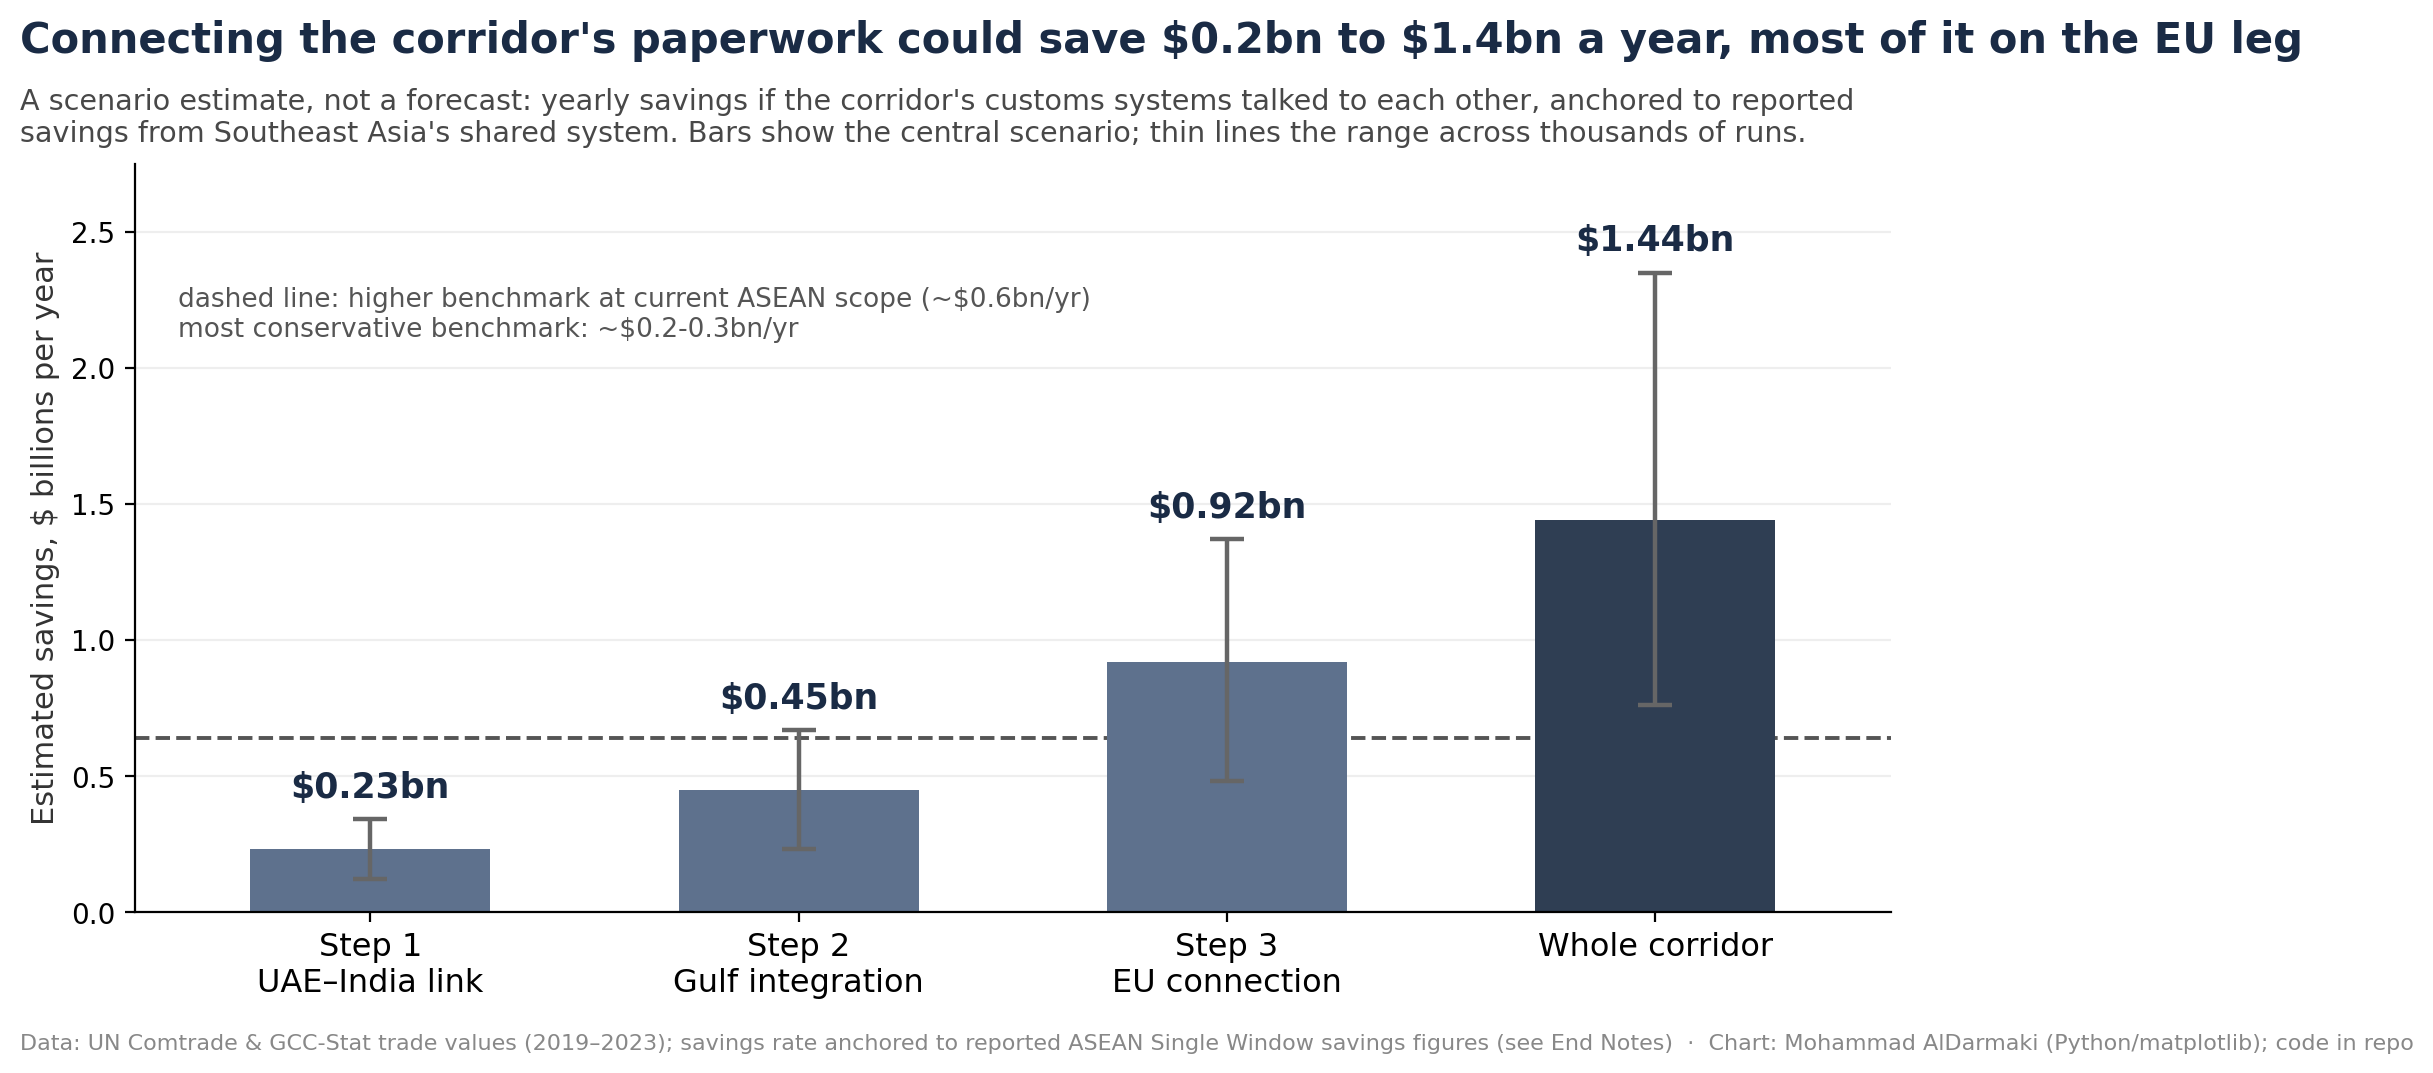
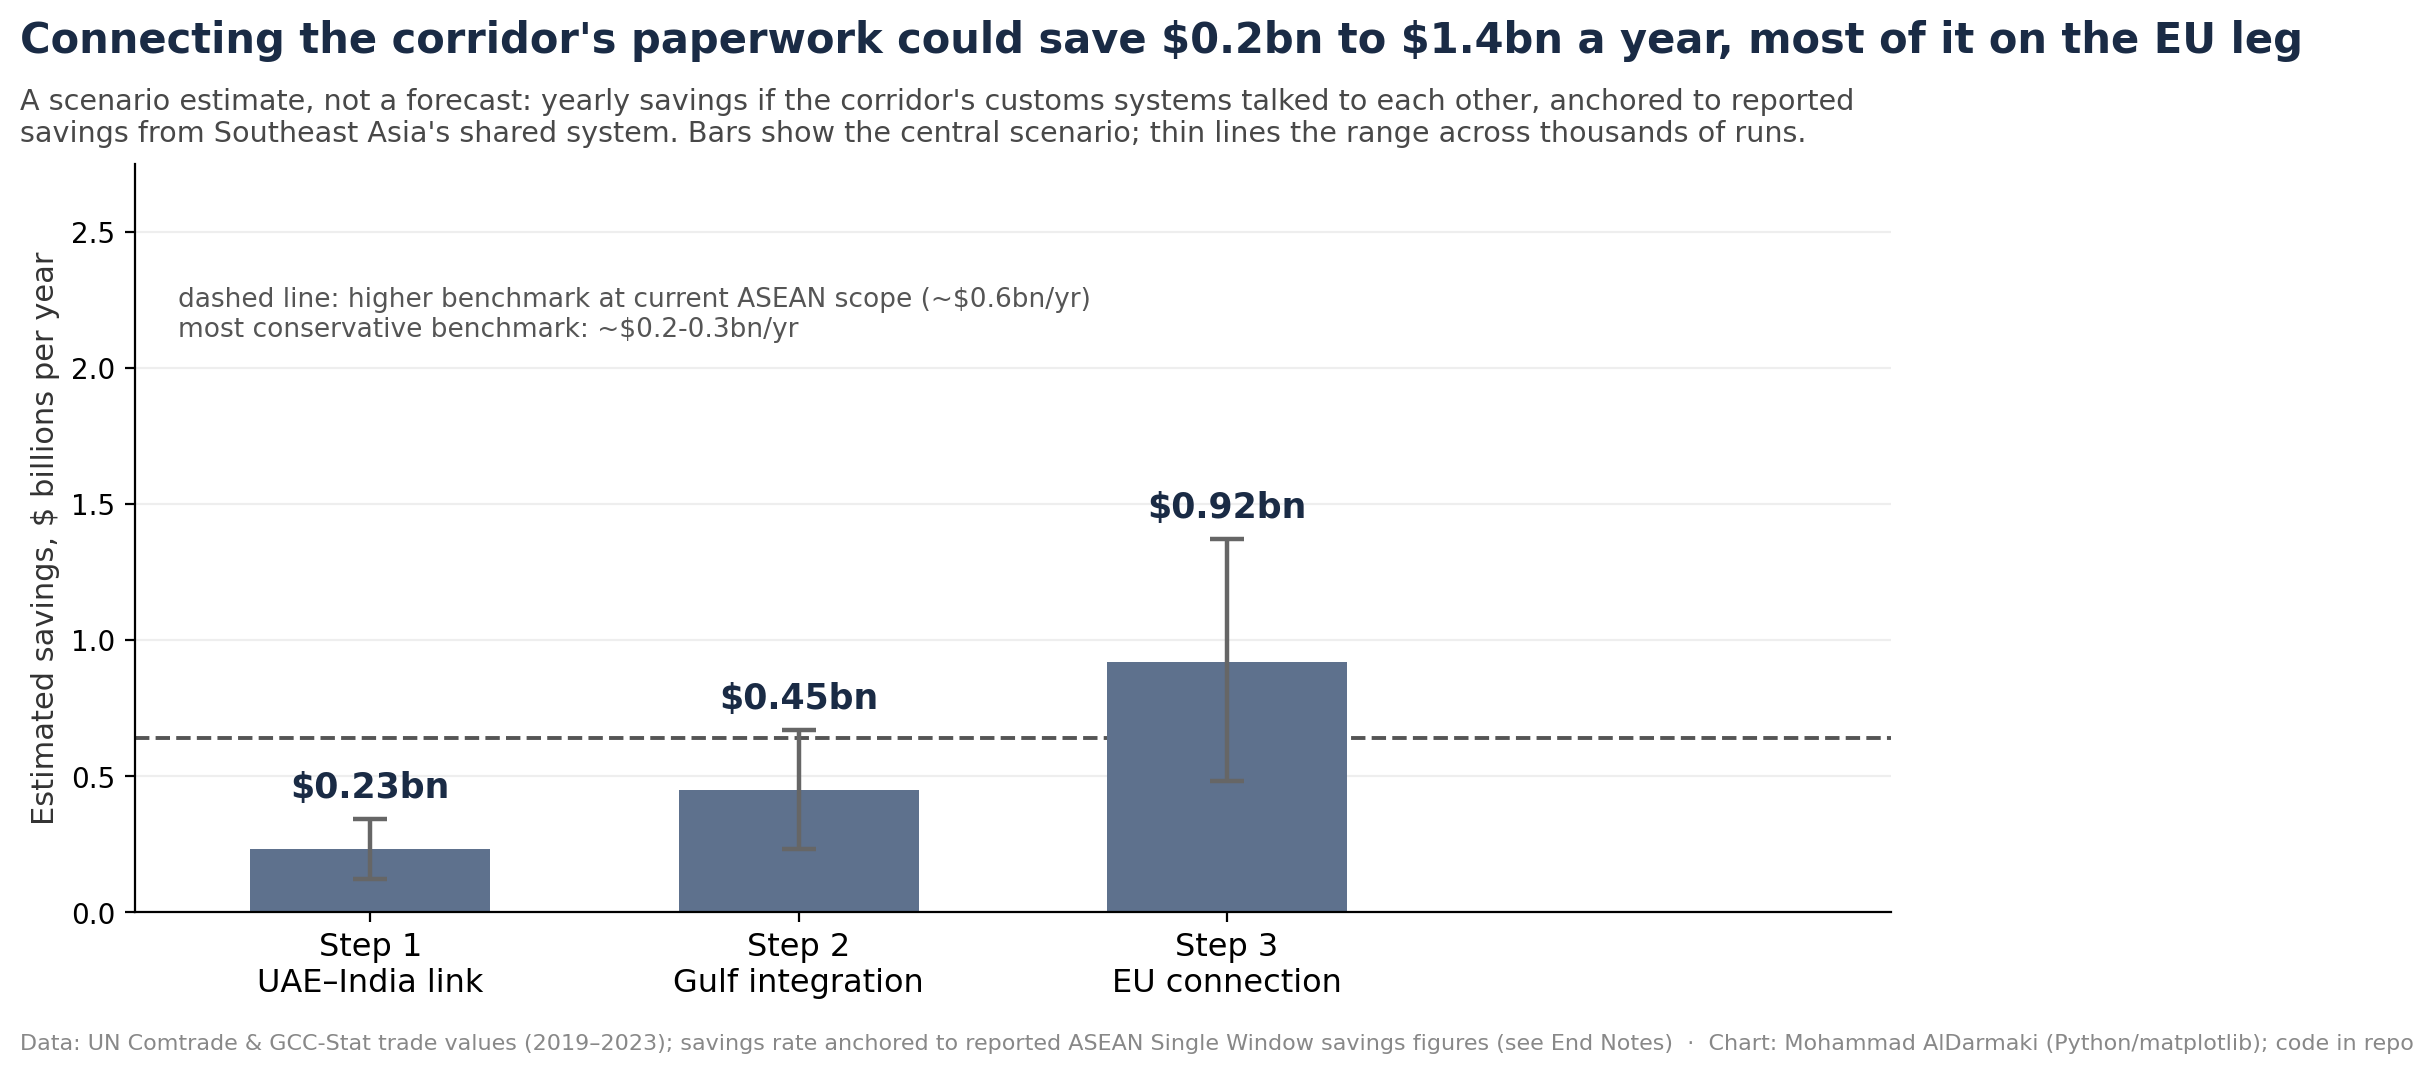
after review

Changed region(s): [[0.6247, 0.4613, 0.7497, 0.8919], [0.6247, 0.2153, 0.7185, 0.2768]]

diff --git a/make_figures.py b/make_figures.py
@@ -225,13 +225,20 @@ def fig_contrast_scatter():
 # --------------------------------------------- Figure 4: savings by step
 def fig_savings_steps():
     rows = list(csv.DictReader(open("output/savings_results_by_step.csv")))
-    labels = {"Step 1 (anchor link: UAE-India)": "Step 1\nUAE–India link",
-              "Step 2 (Gulf integration: intra-Gulf)": "Step 2\nGulf integration",
-              "Step 3 (connect EU: Gulf-EU + India-EU)": "Step 3\nEU connection",
-              "Total corridor": "Whole corridor"}
-    steps = [(labels[r["corridor_step"]], float(r["median_usd_bn"]),
+    # Match steps by prefix so label wording in the CSV can evolve without
+    # silently dropping bars (a clean-rerun bug caught by an external replication).
+    labels = {"Step 1": "Step 1\nUAE–India link",
+              "Step 2": "Step 2\nGulf integration",
+              "Step 3": "Step 3\nEU connection"}
+    def step_key(name):
+        for k in labels:
+            if name.startswith(k):
+                return k
+        return None
+    steps = [(labels[step_key(r["corridor_step"])], float(r["median_usd_bn"]),
               float(r["p10_usd_bn"]), float(r["p90_usd_bn"]))
-             for r in rows if r["corridor_step"] in labels]
+             for r in rows if step_key(r["corridor_step"])]
+    assert len(steps) == 3, f"expected 3 corridor steps, matched {len(steps)} - check labels in savings_results_by_step.csv"
     fig, ax = plt.subplots(figsize=(9.6, 5.2), dpi=200)
     cols = [SLATE, SLATE, SLATE, SLATE_DARK]
     for i, (lab, med, p10, p90) in enumerate(steps):

diff --git a/make_map.py b/make_map.py
@@ -49,7 +49,12 @@ years = [2015, 2017, 2018, 2019, 2022, 2023]   # 2020-21 omitted (COVID crash + 
 yoy = {yr: {iso: 100 * (d[iso][yr] / d[iso][yr - 1] - 1) for iso in d} for yr in years}
 
 # ---- Step 2: draw one small map per year -------------------------------------
-world = gpd.read_file(gpd.datasets.get_path("naturalearth_lowres"))
+try:
+    world = gpd.read_file(gpd.datasets.get_path("naturalearth_lowres"))
+except AttributeError:
+    raise SystemExit("geopandas >= 1.0 removed the bundled Natural Earth dataset. "
+                     "Install the pinned versions from the README: "
+                     "pip install 'geopandas==0.13.2' 'fiona==1.9.6'")
 world["iso"] = world["iso_a3"]
 world.loc[world["name"] == "France", "iso"] = "FRA"
 

diff --git a/make_map_gif.py b/make_map_gif.py
@@ -31,7 +31,12 @@ years = list(range(2014, 2024))
 yoy = {yr: {iso: 100 * (d[iso][yr] / d[iso][yr - 1] - 1)
             for iso in d if yr in d[iso] and (yr - 1) in d[iso]} for yr in years}
 
-world = gpd.read_file(gpd.datasets.get_path("naturalearth_lowres"))
+try:
+    world = gpd.read_file(gpd.datasets.get_path("naturalearth_lowres"))
+except AttributeError:
+    raise SystemExit("geopandas >= 1.0 removed the bundled Natural Earth dataset. "
+                     "Install the pinned versions from the README: "
+                     "pip install 'geopandas==0.13.2' 'fiona==1.9.6'")
 world["iso"] = world["iso_a3"]
 
 centroid = {"BRN": (4.9, 114.7), "KHM": (12.0, 105.0), "IDN": (-2.2, 113.0),

diff --git a/METHODS_AND_AUDIT.md b/METHODS_AND_AUDIT.md
@@ -125,6 +125,16 @@ Two benefits, both ranges from a 50,000-draw Monte Carlo. **Trade base is a
 to smooth the COVID 2020 trough, the 2022 energy spike and soft 2023. 5-yr-avg
 base ≈ **$415bn** (vs $482bn in 2023 alone).
 
+**Combined estimate = pooled model mixture (July 2026, clarified after an
+external replication):** the headline combined figure pools the Monte Carlo
+draws of both methods into one distribution and takes its quantiles
+(median ~$1.44bn, P10–P90 ~$0.76–2.35bn). Method choice is treated as a source
+of uncertainty, so the pooled band is wider than a draw-by-draw average of the
+two methods would be (~$1.49bn, ~$0.97–2.05bn); the code implements pooling
+explicitly. Reproducibility tolerance: quantiles of a 50k-draw simulation
+reproduce to within ~±$0.01–0.02bn across R/Python RNG and quantile
+implementations.
+
 **Cost savings is estimated two ways with different anchors, so it is not single-anchored** (their convergence is a consistency check, not independent validation — they share the same trade base and overlapping trade-cost literature):
 - *Method 1 (ASEAN-calibrated):* ASW saved ~$6.4bn over 2018–2022 (~$1.28bn/yr)
   on intra-ASEAN trade averaging ~$677bn → realised rate **~0.19% of trade/yr**.

diff --git a/README.md b/README.md
@@ -64,6 +64,16 @@ shapes, so the maps render offline.)
 - **Fig 5** (three-step path) — schematic
 - **Fig 6** (interactive year-by-year export map) ← `data/processed/flourish_map_data.csv` ← `data/raw/merch_exports_asw_window.csv` (built by `pull_worldbank_exports.py`)
 
+## Reproducibility notes
+
+The savings model's combined estimate pools the draws of both methods (a
+model mixture); see the comment block in `savings_model.R` and the note in
+`METHODS_AND_AUDIT.md`. Monte Carlo quantiles reproduce across R/Python
+implementations to within about ±$0.01–0.02bn. The map scripts require the
+pinned `geopandas==0.13.2` (newer versions removed the bundled country
+shapes; the scripts now fail with an explanatory message rather than
+silently).
+
 ## Honesty file
 
 `METHODS_AND_AUDIT.md` records how each dataset was obtained, what was reconstructed
